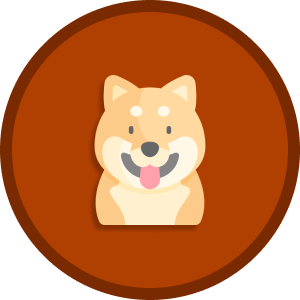
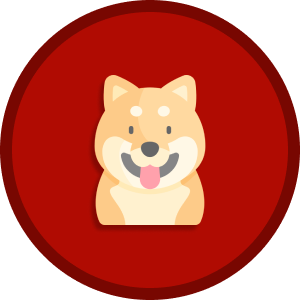
agregado estilos a la config del juego y tarjetas de ganador

diff --git a/TP3/css/style.css b/TP3/css/style.css
@@ -1404,11 +1404,11 @@ nav#bread-crumbs ul img {
     justify-content: flex-end;
     margin: 0 auto;
     background-position: center;
+    border-radius: 5px;
 }
 
 .pantalla-juego {
     height: 70vh; 
-    /* height: 470px; -> le pongo una medida al principio, luego al colocarle el canvas lo modifico*/
     width: 100%;
     padding: 10px;
     background-color: rgba(0, 0, 0, 0.55);
@@ -1428,6 +1428,7 @@ nav#bread-crumbs ul img {
     flex-direction: column;
     align-items: center;
 }
+/* ANIMACION DE CARGA LISTA PARA COLOCAR
 
 #animacion-carga{
     border: 1px solid;
@@ -1459,51 +1460,85 @@ nav#bread-crumbs ul img {
     }
     
 }
+    */
+
 .contenedor-modos-tablero-activo{
     display: flex;
     flex-direction: column;
     align-items: center;
+    justify-content: center;
     gap: 14px;
+    height: 100%;
+    transition: animation ease 1.2s;
 }
-.btn-tipoTablero{
-    border: none;
-    border-radius: 10px;
-    background-color: cornflowerblue;
-    padding: 14px 20px;
-    font-size: 20px;
+#logo-juego{
+    min-width: 35%;
+    animation: subeBajaLogo 2s ease-in-out infinite alternate-reverse;
+    border-radius: 100%;
+}
+@keyframes subeBajaLogo {
+    from{
+        transform: translateY(0);
+    }
+    to{
+        transform: translateY(20px);
+        
+
+    }
+}
+.contenedor-pantalla-juego .contenedor-modos-tablero-activo h2,.contenedor-pantalla-juego #contenedor-configuracion-juego h2{
+    text-shadow: 2px 1px 10px rgba(18, 18, 18, 0.6);
+    font-size: 18px;
+}
+.contenedor-pantalla-juego .contenedor-modos-tablero-activo  #grupo-opc-tablero{
+    display: flex;
+    gap: 10px;
+}
+.btn-tipoTablero {
+    border: 2px solid #5f98c4;
+    background-color: #5f98c4;
+    border-radius: 50px;
+    padding: .5rem 1rem; /* Utiliza rem para una mejor escalabilidad */
+    min-width: 100px; /* Establece un ancho mínimo */
+    font-size: .8rem; /* Utiliza rem para el tamaño de fuente */
+    font-weight: var(--grosor-grueso);
     cursor: pointer;
-}
-.btn-tipoTablero:hover{
-    background-color: rgb(79, 118, 189);
+    transition: all .5s ease;
+    display: flex; /* Utiliza Flexbox para distribuir el contenido */
+    justify-content: center;
+    align-items: center;
 }
 
+.btn-tipoTablero:hover{
+    border: 2px white solid;
+    background-color: #70B3E6;
+    transform: scale(1.1);
+}
 /* seccion de la caja de configuracion del juego */
 .contenedor-configuracion-juego-activo{
     display: flex;
     flex-direction: column;
     align-items: center;
+    gap: 8px;
+    border: 2px solid rgba(255, 255, 255, 0.20);
+    background-color: #0c1b4a;
+    padding: 20px;
+    border-radius: 10px;
+    box-shadow: 2px 2px 20px rgba(18, 18, 18, 0.5);
 }
 
 #contenedor-configuracion-juego #contenedor-opc-equipo{
     display: flex;
     gap: 14px;
 }
-#contenedor-configuracion-juego h2{
-    font-size: 16px;
-    font-weight: var(--grosor-regular);
-}
 
-#contenedor-configuracion-juego .nombre{
-    padding-top: 20px;
-    border-bottom: 1px solid var(--gris-muy-claro);
-}
 #contenedor-configuracion-juego #contenedor-opc-equipo h3{
     align-self: center;
 }
 #contenedor-configuracion-juego .caja-opc-equipo{
     display: flex;
     flex-direction: column;
-    gap: 14px;
+    gap: 10px;
     align-items: center;
     justify-content: center;
 }
@@ -1521,10 +1556,20 @@ nav#bread-crumbs ul img {
     width: 100%;
     cursor: pointer;
 }
+#contenedor-configuracion-juego .cajas-opc-fichas img{
+    filter: brightness(90%);
+}
+
+#contenedor-configuracion-juego .cajas-opc-fichas img:hover{
+    width: 100%;
+    cursor: pointer;
+    filter: brightness(100%);
+}
 
 #contenedor-configuracion-juego .btn-modificar-ficha{
-    background-color: rgb(255, 196, 0);
-    border: none;
+    border: 2px solid #70b3e6;
+    background-color: var(--gris-muy-claro);
+    color: var(--gris-muy-oscuro);
     padding: 5px 10px;
     border-radius: 10px;
     font-weight: bolder;
@@ -1532,24 +1577,136 @@ nav#bread-crumbs ul img {
     align-items: center;
     gap: 10px;
     cursor: pointer;
-    color: var(--gris-muy-oscuro);
+    transition: all linear .3s;
 }
+#contenedor-configuracion-juego .btn-modificar-ficha:hover{
+    background-color: #d0d2dd;
+}
+
 #contenedor-configuracion-juego .btn-modificar-ficha  img{
     transform: rotate(90deg);
     width: 10px;
     /* cuando le hacen click el angulo se vuelve negativo -90*/
 }
-#contenedor-configuracion-juego #btn-jugar-comenzar{
-    padding: 5px 10px;
-    border-radius: 30px;
-    background-color: var(--secundario);
-    cursor: pointer;
-    transition: background-color .3s linear;
-}
-#contenedor-configuracion-juego #btn-jugar-comenzar:hover{
-    background-color: var(--secundario-semi-claro);
+#contenedor-configuracion-juego #caja-opc-volver-continuar{
+    margin-top: 10px;
+    display: flex;
+    justify-content: space-between;
+    width: 100%;
 }
 
+#contenedor-configuracion-juego #caja-opc-volver-continuar #btn-volver-juego{
+    display: flex;
+    align-items: center;
+    justify-content: center;
+    background-color: rgb(30, 90, 143);
+    padding: 8px 20px;
+    border-radius: 30px;
+    cursor: pointer;
+}
+#contenedor-configuracion-juego #caja-opc-volver-continuar #btn-volver-juego img{
+    width: 25px;
+}
+#contenedor-configuracion-juego #btn-jugar-comenzar{
+    padding: 8px 26px;
+    border-radius: 30px;
+    border: 1px #5f98c4 solid;
+    background-color: #5f98c4;
+    color: white;
+    cursor: pointer;
+    font-weight: var(--grosor-grueso);
+    transition: background-color .3s linear;
+    transition: all .5s ease;
+    animation: balancearse 1s linear infinite alternate-reverse;
+}
+#contenedor-configuracion-juego #btn-jugar-comenzar:hover{
+    animation: none;
+    transform: scale(1.1);
+}
+@keyframes  balancearse{
+    0%{
+        transform: rotate(0);
+    }
+    25%{
+        transform: rotate(8deg);
+    }
+    50%{
+        transform: rotate(0);
+
+    }
+    100%{
+        transform: rotate(0);
+    }
+}
+/* estilos para card de ganador */
+.contenedor-card-ganador{
+    border:4px solid #C97A49;
+    background-color: #fff494;
+    border-radius: 10px;
+    width: 300px;
+    padding-bottom: 20px;
+    display: flex;
+    flex-direction: column;
+    align-items: center;
+    gap: 14px;
+    overflow: hidden;
+}
+
+.contenedor-card-ganador #titulo-card-ganador{
+    background-color: #C97A49;
+    text-transform: uppercase;
+    width: 100%;
+    text-align: center;
+    padding: 14px 0;
+    
+}
+#img-ganador{
+    width: 80%;
+}
+/* despues elimiar esta estilo */
+#section-cards-ganador,#grupo-opc-confirmacion{
+    display: flex;
+    gap: 20px;
+}
+#contenedor-mensaje-confirmacion{
+    background-color: #fff494;
+    height: max-content;
+    padding: 20px 20px;
+    border-radius: 10px;
+}
+#contenedor-mensaje-confirmacion h2{
+    color: #C97A49;
+    font-size: 16px;
+}
+#contenedor-mensaje-confirmacion #grupo-opc-confirmacion{
+    padding-top: 14px;
+    justify-content: center;
+}
+#contenedor-mensaje-confirmacion button{
+    width: 50px;
+    height: 30px;
+    border-radius: 20px;
+    color: var(--gris-muy-oscuro);
+    font-weight: var(--grosor-grueso);
+    background-color: rgb(255, 243, 238);
+    box-shadow: 2px 2px 10px rgba(71, 71, 71, 0.411);
+    cursor: pointer;
+}
+#btn-reset{
+    background-color: var(--gris-muy-claro);
+    border-radius: 100%;
+    width: 50px;
+    height: 50px;
+    display: flex;
+    justify-content: center;
+    align-items: center;
+    box-shadow: 2px 2px 10px rgba(104, 103, 103, 0.5);
+    cursor: pointer;
+}
+#btn-reset img{
+    width: 60%;
+}
+/* sigue con los estilos de la pag juego */
 #caja-instrucciones {
     position: absolute;
     z-index: 2;

diff --git a/TP3/cardsGanador.html b/TP3/cardsGanador.html
@@ -1,0 +1,36 @@
+<!DOCTYPE html>
+<html lang="en">
+<head>
+    <meta charset="UTF-8">
+    <meta name="viewport" content="width=device-width, initial-scale=1.0">
+    <title>Document</title>
+    <link rel="stylesheet" href="css/style.css">
+</head>
+<body>
+    <section id="section-cards-ganador">
+
+        <div class="contenedor-card-ganador">
+            <h1 id="titulo-card-ganador">Ganador: <span id="text-ganador">Gatos</span></h1>
+            <img id="img-ganador" src="img/pagina-juego/perros-vs-gatos/gato-ganador.PNG" alt="">
+            <btn id="btn-reset">
+                <img src="img/pagina-juego/perros-vs-gatos/icono-recet.png" alt="">
+            </btn>
+            
+        </div>
+        <div class="contenedor-card-ganador">
+            <h1 id="titulo-card-ganador">Ganador: <span id="text-ganador">Perros</span></h1>
+            <img id="img-ganador" src="img/pagina-juego/perros-vs-gatos/perros-ganador.png" alt="">
+            <btn id="btn-reset">
+                <img src="img/pagina-juego/perros-vs-gatos/icono-recet.png" alt="">
+            </btn>    
+        </div>
+        <div id="contenedor-mensaje-confirmacion">
+            <h2>¿Esta seguro de reiniciar la partida?</h2>
+            <div id="grupo-opc-confirmacion">
+                <button>No</button>
+                <button>Si</button>
+            </div>
+        </div>
+    </section>
+</body>
+</html>

diff --git a/TP3/juego.html b/TP3/juego.html
@@ -132,9 +132,9 @@
                     <div id="animacion-carga" class="oculto"></div>
                 </div>
                 <div class="contenedor-modos-tablero oculto">
-                    <h1 id="tituloJuego">x en linea</h1>
+                    <img id="logo-juego" src="img/pagina-juego/perros-vs-gatos/logo-juego.png" alt="logo del juego">
                     <h2>Seleccionar el tipo de tablero para comenzar a jugar</h2>
-                    <div>
+                    <div id="grupo-opc-tablero">
                         <button id="btn-opc1" class="btn-tipoTablero">4 en linea</button>
                         <button id="btn-opc2" class="btn-tipoTablero">5 en linea</button>
                         <button id="btn-opc3" class="btn-tipoTablero">6 en linea</button>
@@ -170,9 +170,11 @@
                             </div>
                         </div>
                     </div>
-                    <button id="btn-jugar-comenzar">Jugar</button>
+                    <div id="caja-opc-volver-continuar">
+                        <button id="btn-volver-juego"><img src="img/pagina-juego/perros-vs-gatos/flecha-izquierda.png" alt="btn-volver atras"></button>
+                        <button id="btn-jugar-comenzar">Comenzar</button>
+                    </div>
                 </div>
-
                 <!-- Canvas del juego -->
                 <canvas id="canvas" class="oculto"></canvas>
 

diff --git a/TP3/js/perros-vs-gatos/opcionesJuego.js b/TP3/js/perros-vs-gatos/opcionesJuego.js
@@ -28,11 +28,13 @@ document.addEventListener('DOMContentLoaded', () => {
     }
     //funcion para comenzar a mostrar la configuracion y modficiar el modo tablero
     function mostrarConfigTablero() {
-        contenedorPantallaJuego.style.backgroundImage = 'none';
+        console.log('cambiando img')
+        pantallaJuego.style.backgroundColor = 'black';
+        pantallaJuego.style.backgroundImage = 'linear-gradient(rgba(0, 0, 0, 0.5), rgba(2, 87, 214, 0.5))';
+        // contenedorPantallaJuego.style.backgroundImage = "url(./img/pagina-juego/perros-vs-gatos/fondo-huellitas.png)";
         contenedorOpcTablero.classList.add('contenedor-modos-tablero-activo');
         contenedorOpcTablero.classList.remove('oculto');
         habilitarBotonesOpcTablero();
-
 
         //si se aprieta alguna opcion de tablero, se sigue con la configuracion
         const botonesTablero = contenedorOpcTablero.querySelectorAll('.btn-tipoTablero');

diff --git a/TP3/js/perros-vs-gatos/casillero.js b/TP3/js/perros-vs-gatos/casillero.js
@@ -13,7 +13,7 @@ export class Casillero {
         this.ficha = null;
         
         this.img = new Image();
-        this.img.src = './img/pagina-juego/perros-vs-gatos/casillero.png';
+        this.img.src = './img/pagina-juego/perros-vs-gatos/casillero-madera-clara.png';
         this.imgCargada = false;
         this.img.onload = () => {
             this.imgCargada = true;
